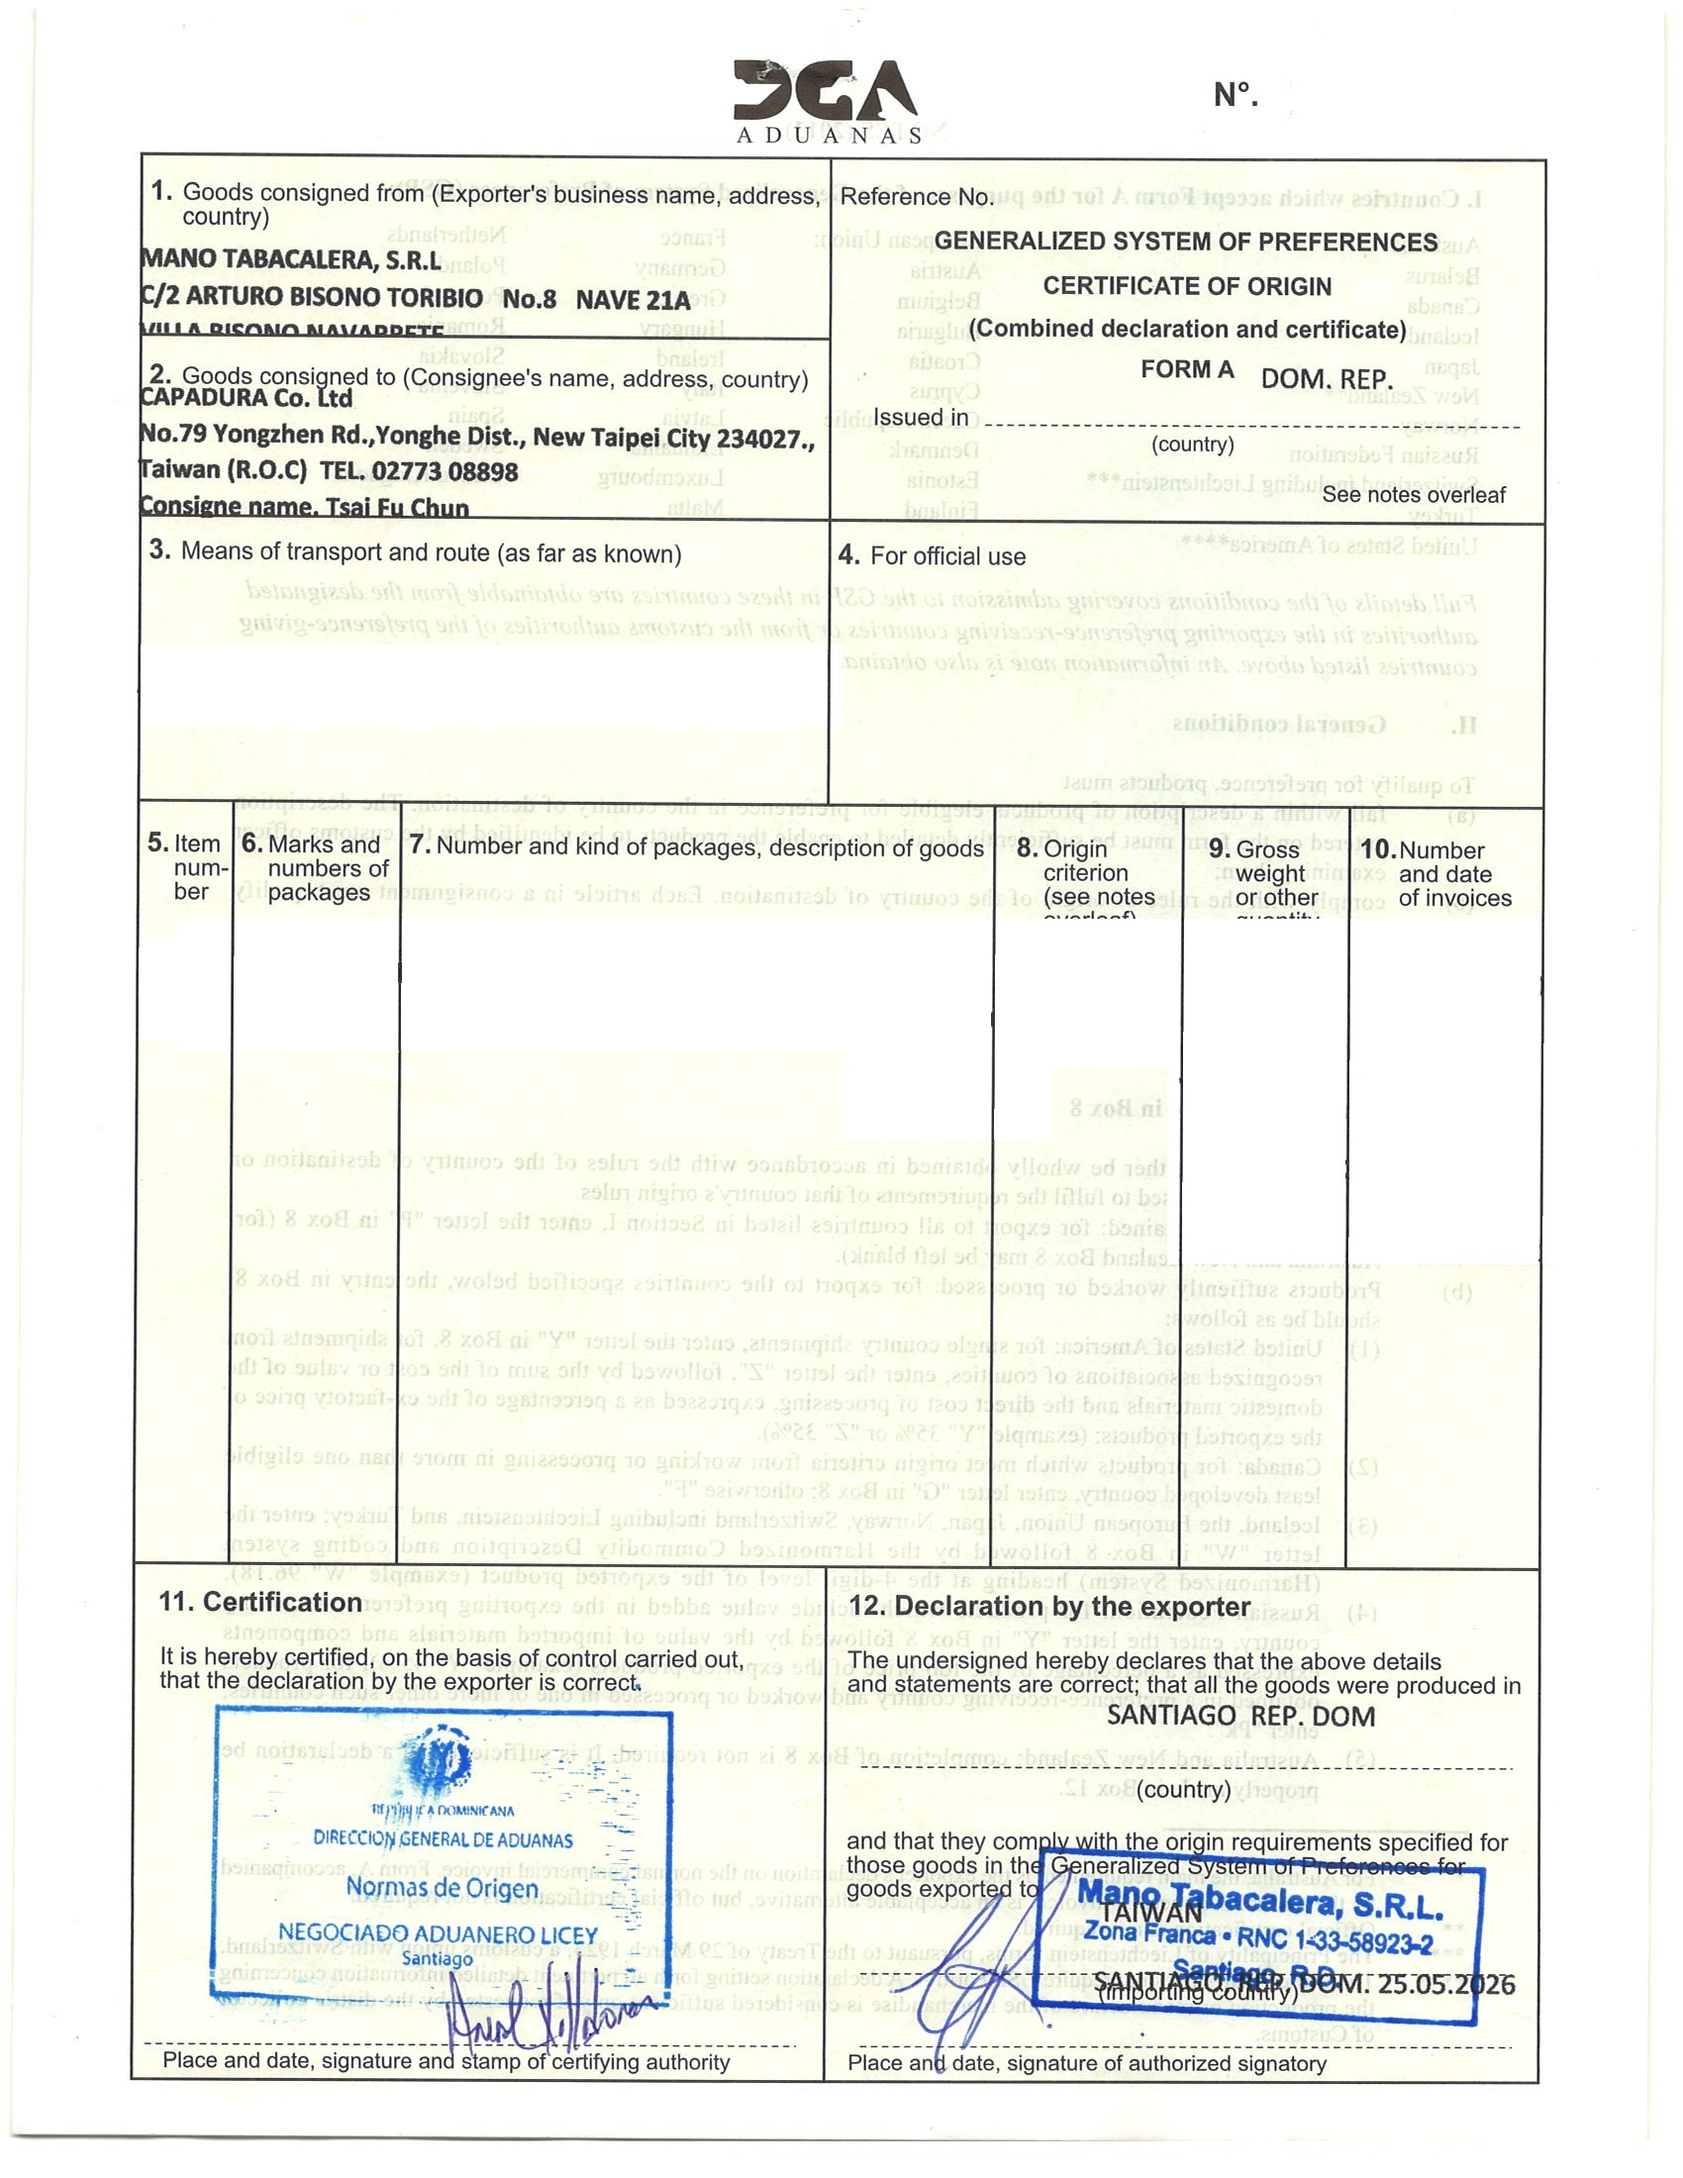
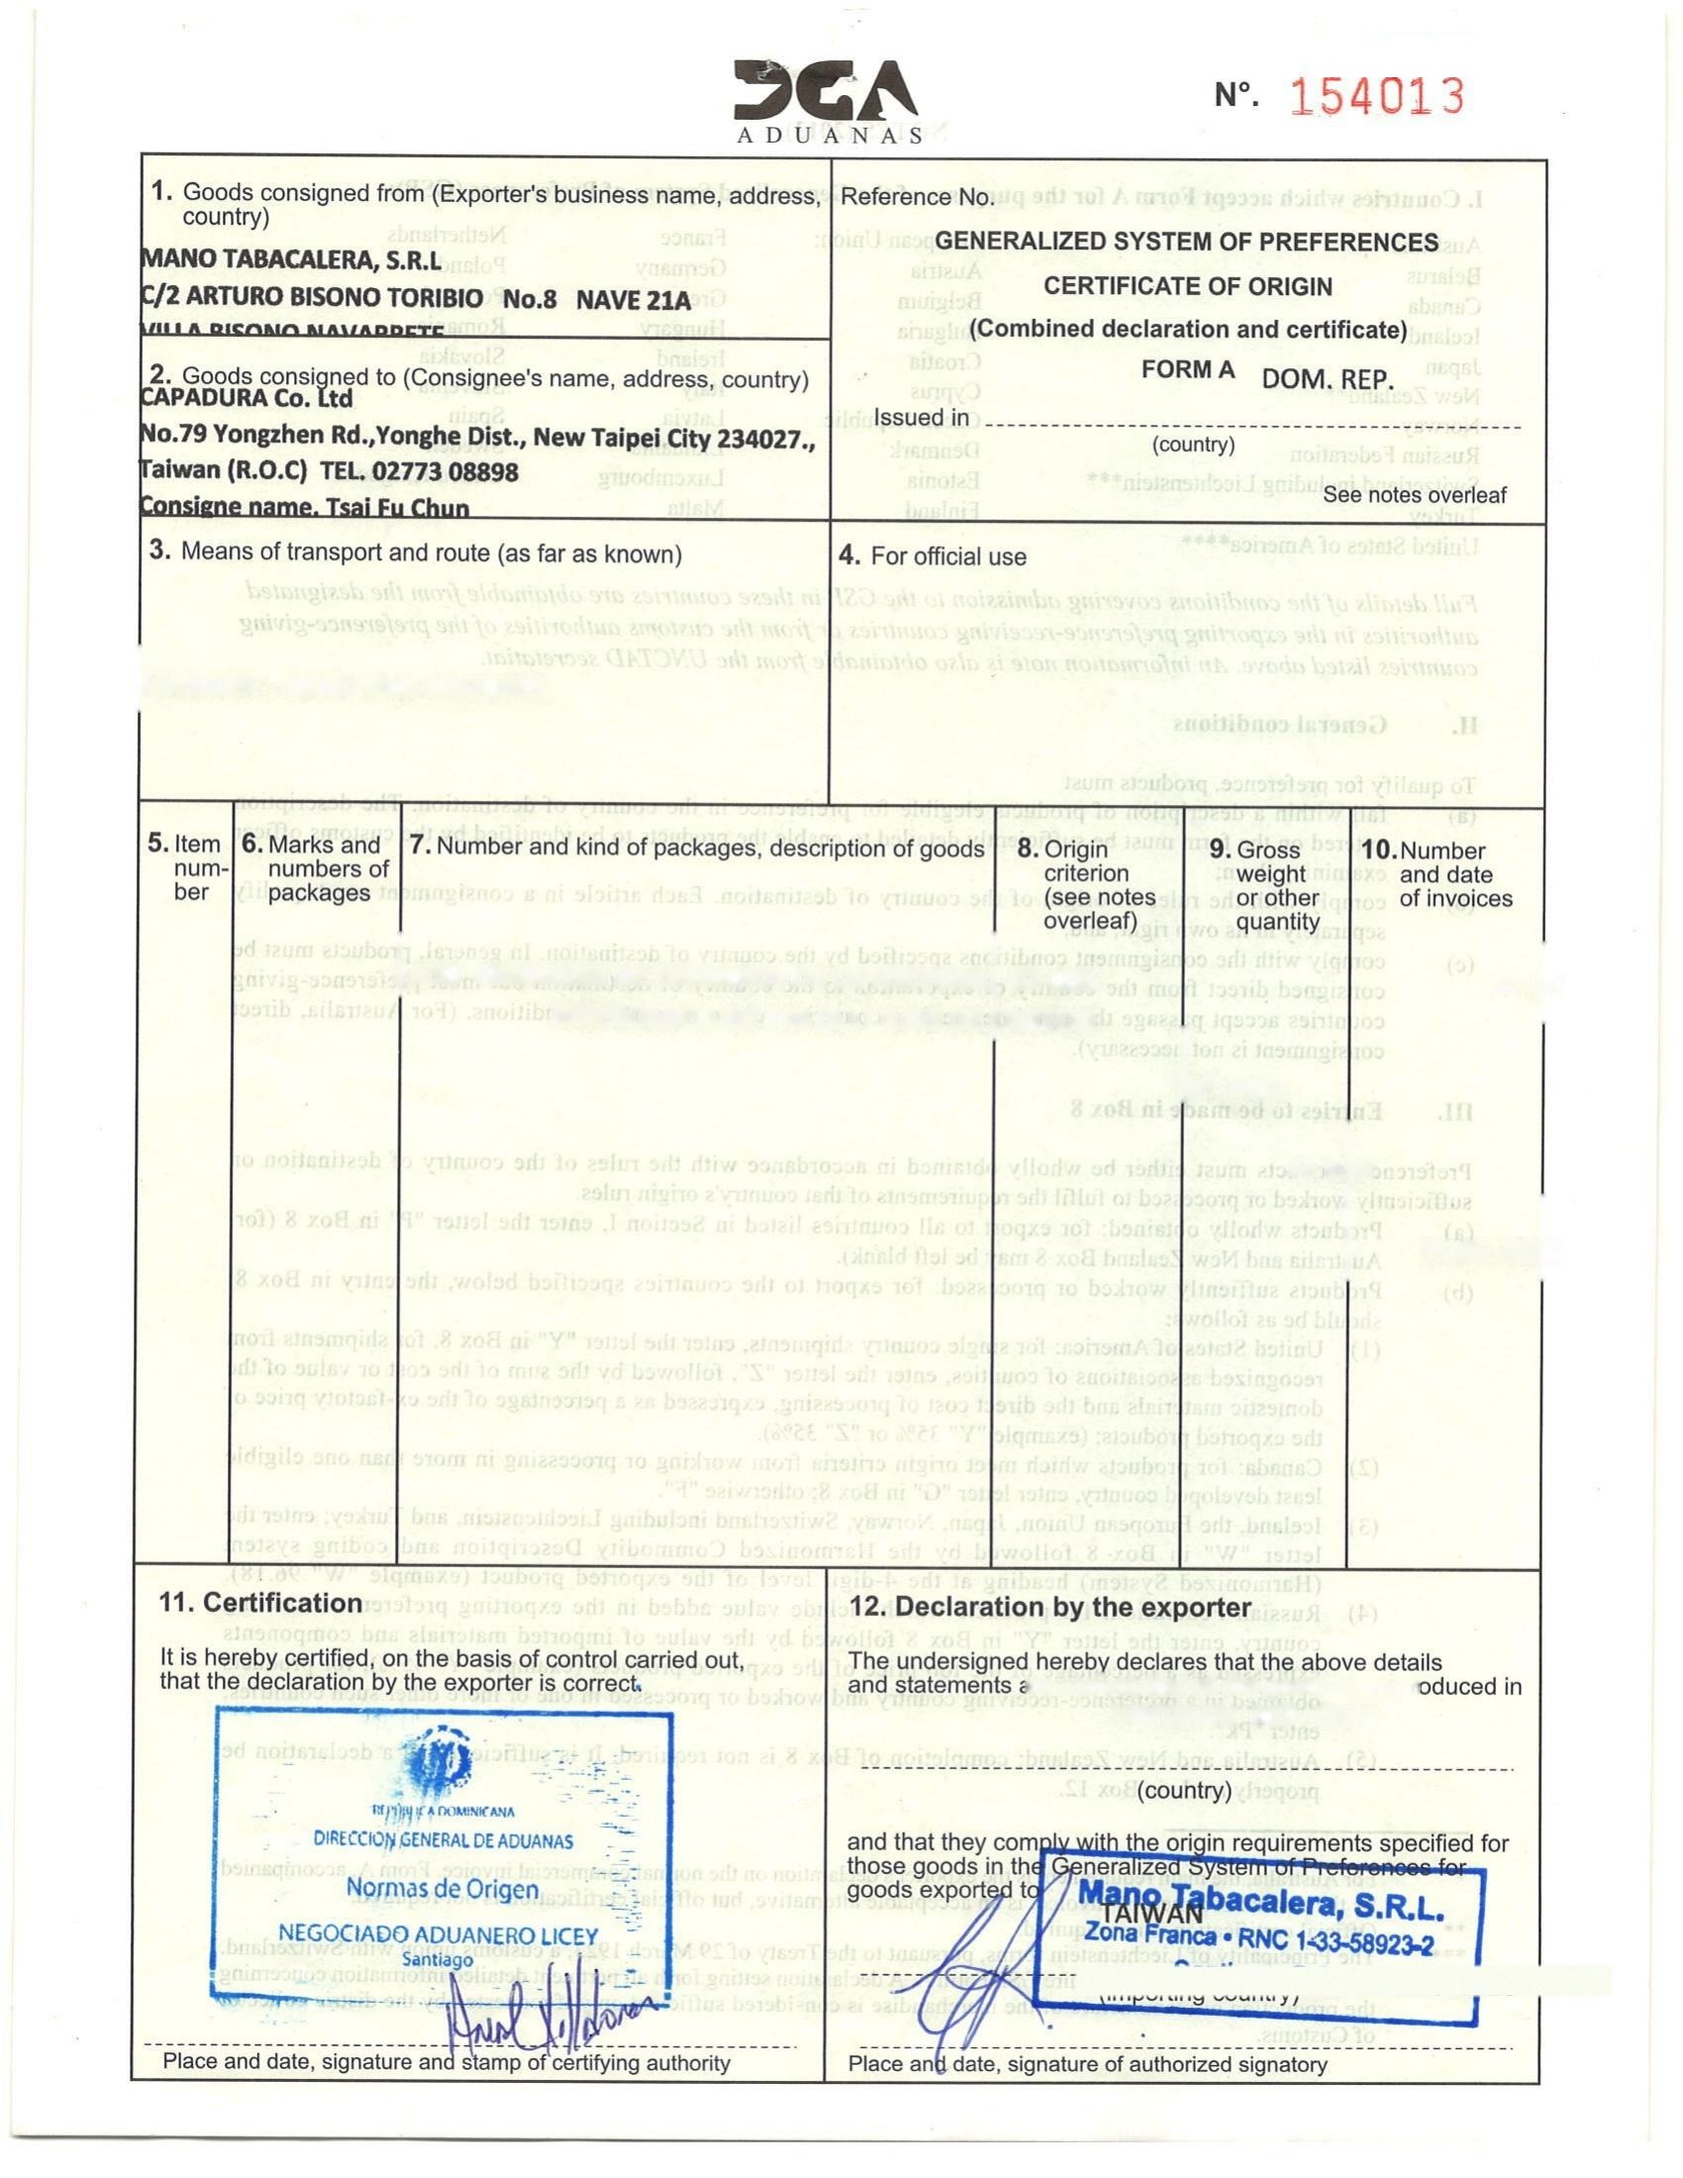
fix(customs): 改用 Wilson 紙色 P 圖底圖，消除白塊；Nº 固定正本紅字
Wilson 指出純白塗白塊在米黃紙上太假。改用 Wilson 自己用紙張紋理 P 好的
乾淨底圖（box5-10/transport 紙色融合清空、無白塊），取代程式純白塗白版。

- 底圖換成 Wilson P 好的 form-a-bg-clean.jpg（提取自他的 PDF）
- 清掉底圖上方一個放錯位的多餘 154013（紙色填補），保留正本 Nº 行紅字
- 移除 certNo 輸入框：Nº 154013 由底圖正本掃描紅字固定顯示（字體 1:1）
- 變動欄位（transport/desc/marks/crit8/weight/inv）維持可填，對齊清空區

diff --git a/src/pages/admin/CertificateFormA.jsx b/src/pages/admin/CertificateFormA.jsx
@@ -17,7 +17,7 @@ const BG_SRC = "/customs/form-a-bg-clean.jpg";
 // 注意：出口商 / 收貨人 / 生產國 = 正本固定內容，保留在底圖（原版字體 1:1），不放輸入框。
 //       只有每批會變的欄位才做成可填。
 const FIELDS = [
-  ["certNo",    77.000,  2.300, 17.500, 3.300, false, 2.00, "#c00", "center"],
+  // certNo（Nº 154013）= 正本掃描紅字，保留在底圖（字體 1:1），不做可填欄位
   ["transport",  6.000, 30.400, 43.000, 2.600, false, 1.55, "#000", "left"],
   ["item5",      5.700, 44.500,  5.000, 2.800, false, 1.50, "#000", "center"],
   ["desc",      11.000, 43.000, 46.000, 4.500, true,  1.20, "#000", "left"],
@@ -29,7 +29,7 @@ const FIELDS = [
 ];
 
 const LABELS = {
-  certNo: "證明號 N°", transport: "運送/航班",
+  transport: "運送/航班",
   desc: "貨物說明", marks: "嘜頭", item5: "項次", crit8: "原產地標準",
   weight9: "毛重", inv10a: "發票號", inv10b: "發票日期",
 };
@@ -37,7 +37,6 @@ const LABELS = {
 // 正本變動欄位的預設值（可直接改成新一批的資料）。
 // 出口商/收貨人/生產國等固定欄位由底圖顯示（正本原字），不在此。
 const DEFAULTS = {
-  certNo: "154013",
   transport: "AMERIJET  AWB #810-43670255",
   desc: "1,250  UNIDADES DE CIGARROS DE LA FACTURA\nEMPACADOS EN TRS (3 ) CAJAS DE CARTON",
   marks: '"W" 2402',
@@ -137,7 +136,7 @@ function CertificateFormA({ bgSrc = BG_SRC }) {
       const pageH = pdf.internal.pageSize.getHeight();
       pdf.addImage(imgData, "JPEG", 0, 0, pageW, pageH);
       const today = new Date().toISOString().slice(0, 10);
-      pdf.save(`FormA_${vals.certNo || "COO"}_${today}.pdf`);
+      pdf.save(`FormA_154013_${today}.pdf`);
     } catch (e) {
       console.error("PDF 下載失敗:", e);
       alert("❌ PDF 下載失敗：" + (e.message || e));
@@ -169,10 +168,6 @@ function CertificateFormA({ bgSrc = BG_SRC }) {
       <div className="cfa-quick cfa-no-print">
         <div className="cfa-quick-title">⭐ 快速編輯（最常改的欄位）</div>
         <div className="cfa-quick-grid">
-          <label className="cfa-quick-fld">
-            <span>證明號 N°</span>
-            <input value={vals.certNo || ""} onChange={set("certNo")} placeholder="如：154013" />
-          </label>
           <label className="cfa-quick-fld">
             <span>發票號</span>
             <input value={vals.inv10a || ""} onChange={set("inv10a")} placeholder="如：67-006" />
